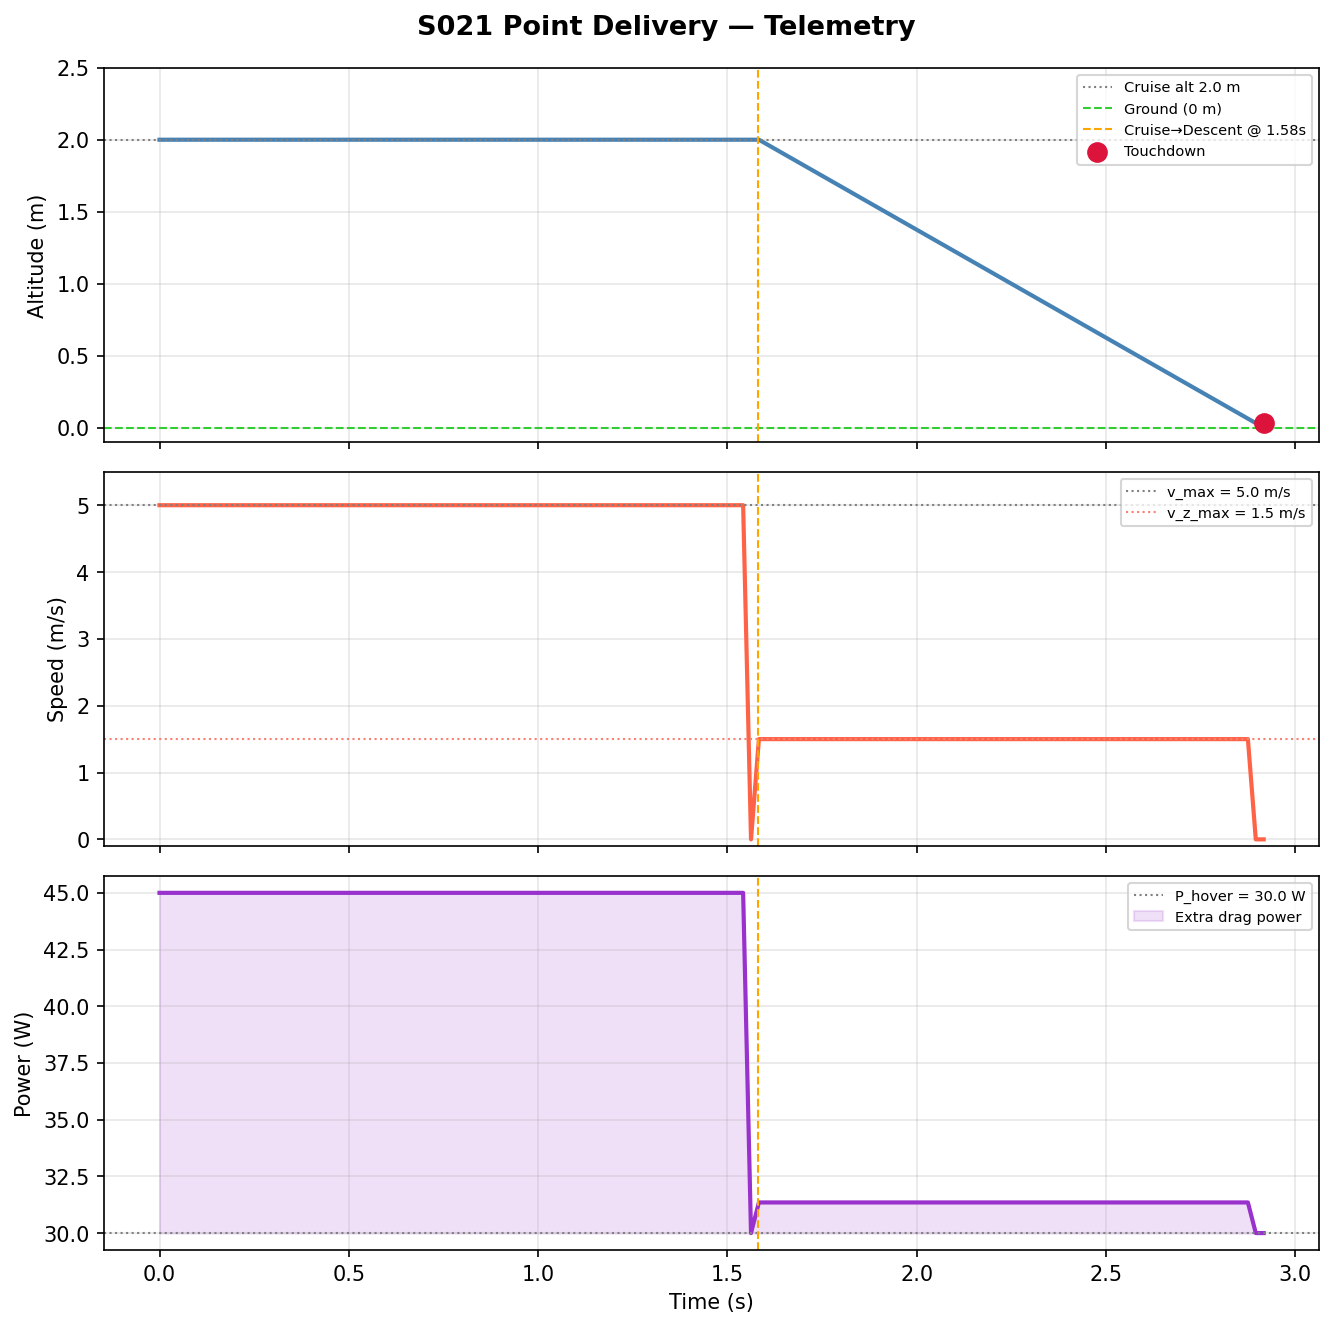
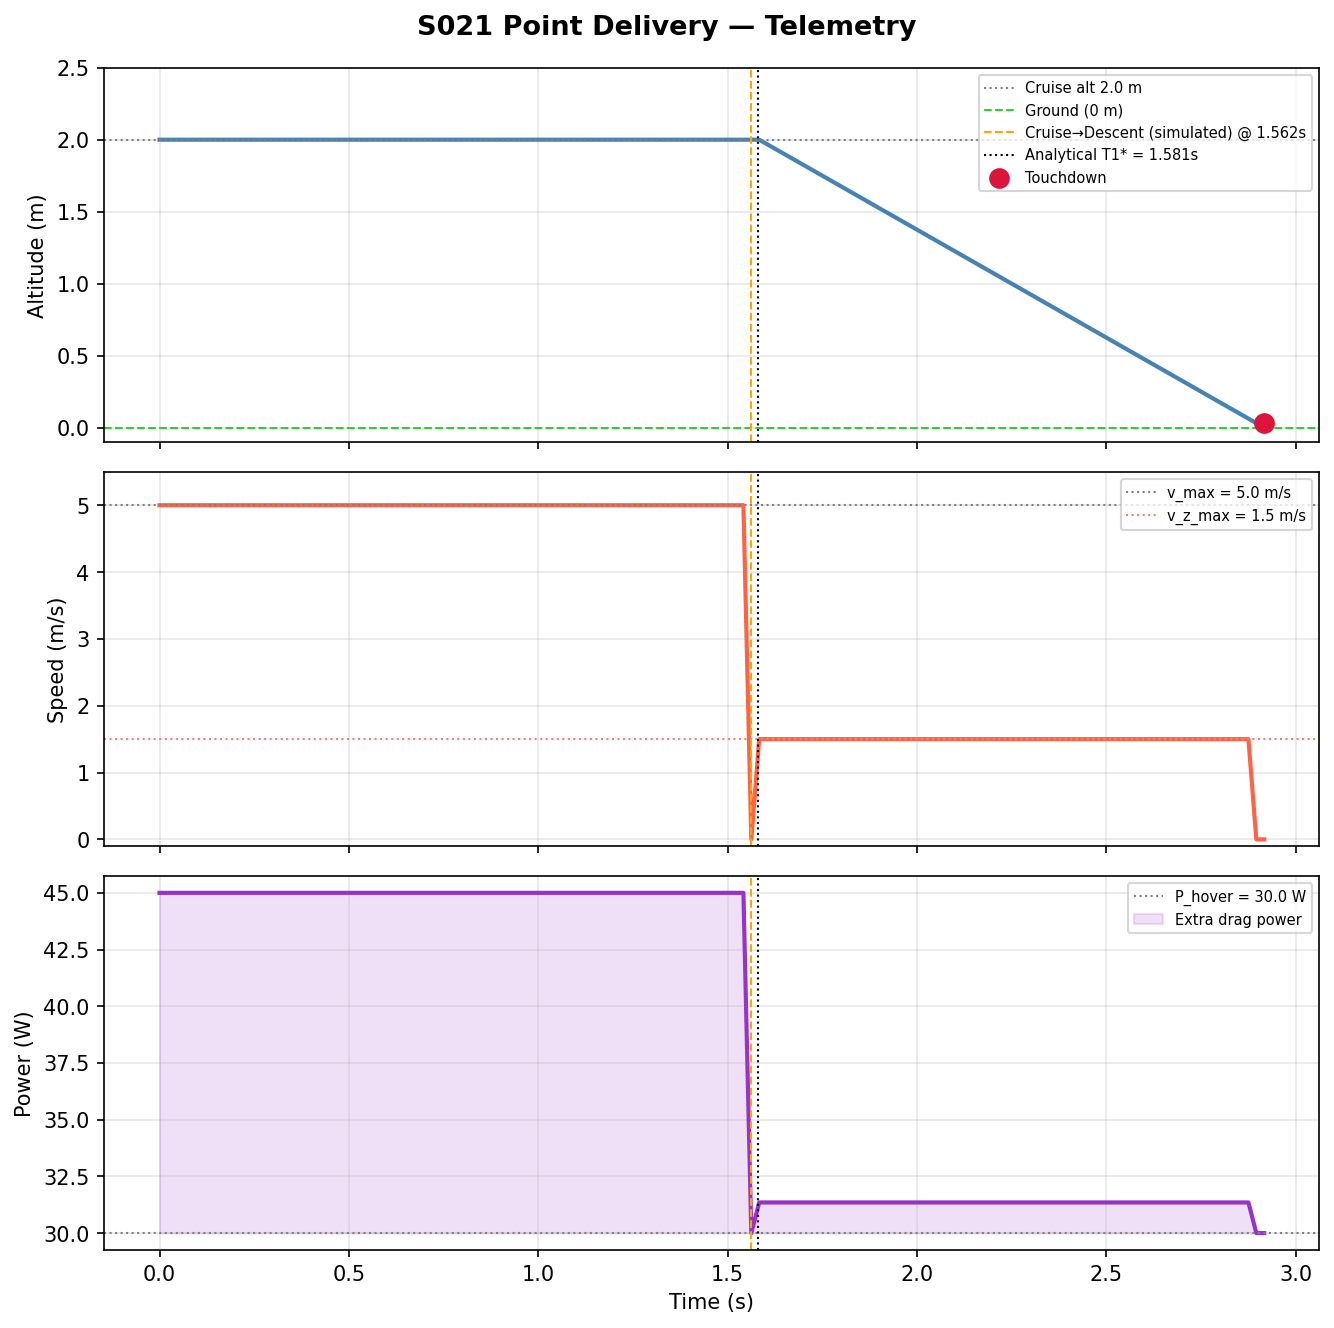
Fix S021 Point Delivery: draw simulated Cruise->Descent switch in telemetry
- [LOW] Telemetry switch line now drawn at the simulated switch time (1.562 s), with the analytical T1* (1.581 s) shown separately and labelled
- Print simulated cruise/descent durations; README results table uses them and explains the discretisation differences
- README: add Max mission time row (C4) and "Deviations from the scenario card" subsection (C5)
- Replace deprecated np.trapz with np.trapezoid

diff --git a/src/02_logistics_delivery/s021_point_delivery.py b/src/02_logistics_delivery/s021_point_delivery.py
@@ -119,9 +119,16 @@ def run_simulation():
     # Mission metrics
     T_mission  = times[-1]
     landing_err = np.linalg.norm(positions[-1] - GOAL)
-    energy = np.trapz(powers, times)
+    energy = np.trapezoid(powers, times)
+
+    # Simulated phase-switch time = first logged step in DESCENT phase
+    i_switch = phases_log.index("DESCENT")
+    T1_sim   = times[i_switch]
+    T2_sim   = T_mission - T1_sim
 
     print(f"[S021] Simulation results:")
+    print(f"  Cruise time    = {T1_sim:.3f} s  (predicted {T1_star:.3f} s)")
+    print(f"  Descent time   = {T2_sim:.3f} s  (predicted {T2_star:.3f} s)")
     print(f"  Mission time   = {T_mission:.3f} s  (predicted {T_pred:.3f} s)")
     print(f"  Landing error  = {landing_err:.4f} m  (limit {R_LAND} m)")
     print(f"  Energy used    = {energy:.2f} J")
@@ -135,6 +142,8 @@ def run_simulation():
         "phases_log": phases_log,
         "T_mission": T_mission,
         "T1_star": T1_star,
+        "T1_sim": T1_sim,
+        "T2_sim": T2_sim,
         "T2_star": T2_star,
         "T_pred": T_pred,
         "landing_err": landing_err,
@@ -204,7 +213,8 @@ def plot_telemetry(data: dict):
     vel = data["velocities"]
     pwr = data["powers"]
 
-    T1 = data["T1_star"]  # approximate cruise end time
+    T1  = data["T1_sim"]   # simulated Cruise→Descent switch time
+    T1a = data["T1_star"]  # analytical T1*
 
     fig, axes = plt.subplots(3, 1, figsize=(9, 9), sharex=True)
     fig.suptitle("S021 Point Delivery — Telemetry", fontsize=13, fontweight="bold")
@@ -214,7 +224,10 @@ def plot_telemetry(data: dict):
     ax.plot(t, pos[:, 2], color="steelblue", linewidth=2)
     ax.axhline(Z_CRUISE, color="gray", linestyle=":", linewidth=1, label=f"Cruise alt {Z_CRUISE} m")
     ax.axhline(GOAL[2],  color="limegreen", linestyle="--", linewidth=1, label="Ground (0 m)")
-    ax.axvline(T1, color="orange", linestyle="--", linewidth=1, label=f"Cruise→Descent @ {T1:.2f}s")
+    ax.axvline(T1, color="orange", linestyle="--", linewidth=1,
+               label=f"Cruise→Descent (simulated) @ {T1:.3f}s")
+    ax.axvline(T1a, color="black", linestyle=":", linewidth=1,
+               label=f"Analytical T1* = {T1a:.3f}s")
     ax.scatter(t[-1], pos[-1, 2], color="crimson", s=80, zorder=5, label="Touchdown")
     ax.set_ylabel("Altitude (m)")
     ax.set_ylim(-0.1, Z_CRUISE + 0.5)
@@ -227,6 +240,7 @@ def plot_telemetry(data: dict):
     ax.axhline(V_MAX,   color="gray", linestyle=":", linewidth=1, label=f"v_max = {V_MAX} m/s")
     ax.axhline(V_Z_MAX, color="salmon", linestyle=":", linewidth=1, label=f"v_z_max = {V_Z_MAX} m/s")
     ax.axvline(T1, color="orange", linestyle="--", linewidth=1)
+    ax.axvline(T1a, color="black", linestyle=":", linewidth=1)
     ax.set_ylabel("Speed (m/s)")
     ax.set_ylim(-0.1, V_MAX + 0.5)
     ax.legend(fontsize=7, loc="upper right")
@@ -237,6 +251,7 @@ def plot_telemetry(data: dict):
     ax.plot(t, pwr, color="darkorchid", linewidth=2)
     ax.axhline(P_HOVER, color="gray", linestyle=":", linewidth=1, label=f"P_hover = {P_HOVER} W")
     ax.axvline(T1, color="orange", linestyle="--", linewidth=1)
+    ax.axvline(T1a, color="black", linestyle=":", linewidth=1)
     ax.fill_between(t, pwr, P_HOVER, alpha=0.15, color="darkorchid", label="Extra drag power")
     ax.set_xlabel("Time (s)")
     ax.set_ylabel("Power (W)")

diff --git a/outputs/02_logistics_delivery/s021_point_delivery/README.md b/outputs/02_logistics_delivery/s021_point_delivery/README.md
@@ -49,6 +49,11 @@ $$E = \int_0^{T_{mission}} \left( P_{hover} + k_{drag} \cdot v(t)^2 \right) dt$$
 | Control frequency | 48 Hz | dt = 1/48 s |
 | Hover power | 30 W | |
 | Drag power coefficient | 0.6 W·s²/m² | |
+| Max mission time | 60 s | Safety cut-off (not reached) |
+
+### Deviations from the scenario card
+
+None in method or parameters — the code implements the card's FSM, constants and energy model exactly. Two reporting details are added: the simulated phase durations are measured from the logged switch step (not assumed equal to the analytical $T_1^*$, $T_2^*$), and energy is integrated with the trapezoidal rule over the logged power samples rather than with the card's closed-form approximation.
 
 ---
 
@@ -56,14 +61,19 @@ $$E = \int_0^{T_{mission}} \left( P_{hover} + k_{drag} \cdot v(t)^2 \right) dt$$
 
 | Metric | Predicted | Simulated |
 |--------|-----------|-----------|
-| Cruise time $T_1$ | 1.581 s | ~1.581 s |
-| Descent time $T_2$ | 1.333 s | ~1.333 s |
+| Cruise time $T_1$ (time of Cruise→Descent switch) | 1.581 s | **1.562 s** |
+| Descent time $T_2$ | 1.333 s | **1.354 s** |
 | Total mission time | 2.914 s | **2.917 s** |
 | Landing error | — | **9.83 cm** < 20 cm ✅ |
 | Energy consumed | — | **112.55 J** |
 | Landing success | — | **Yes** ✅ |
 
-Simulation matches analytical prediction to within 0.1 % — validating the time-optimal bang-bang cruise and maximum-rate descent strategy.
+The total mission time matches the analytical prediction to within 0.1 %. The two phases individually differ slightly, for discretisation reasons:
+
+- **Cruise ends early (1.562 s vs 1.581 s)**: the FSM switches to descent as soon as the horizontal distance is below $\epsilon_{align} = 0.10$ m, i.e. the drone stops about 0.1 m short of the pad (≈ 0.02 s at 5 m/s).
+- **Descent is slightly longer (1.354 s vs 1.333 s)**: the switch step and the touchdown step each output zero velocity (2 × 1/48 s), while the 5 cm touchdown tolerance saves one 1/48 s step (touchdown at z = 0.031 m).
+
+The 9.83 cm landing error is therefore mostly the horizontal residual left by the 0.10 m alignment threshold (≈ 9.3 cm horizontal, 3.1 cm vertical). Energy sanity check: $30 \times 2.917 + 0.6 \times 5^2 \times 1.562 + 0.6 \times 1.5^2 \times 1.354 \approx 112.7$ J, consistent with the trapezoidal-integrated 112.55 J.
 
 ---
 
@@ -77,11 +87,13 @@ Depot (blue square) → cruise segment (red solid at z = 2 m) → descent segmen
 
 ### Telemetry (Altitude / Speed / Power vs Time)
 
-Altitude holds at 2 m during cruise then drops linearly; speed is constant at 5 m/s during cruise and 1.5 m/s during descent; power is highest during cruise due to drag:
+Altitude holds at 2 m during cruise then drops linearly; speed is constant at 5 m/s during cruise and 1.5 m/s during descent; power is highest during cruise due to drag (45 W vs ≈ 31.4 W in descent). The orange dashed line marks the **simulated** Cruise→Descent switch (1.562 s); the black dotted line marks the analytical $T_1^*$ (1.581 s) for comparison:
 
 ![Telemetry](telemetry.png)
 
 ### Animation
+
+141 frames (every simulation step, 48 Hz source) played at 15 fps:
 
 ![Animation](animation.gif)
 
